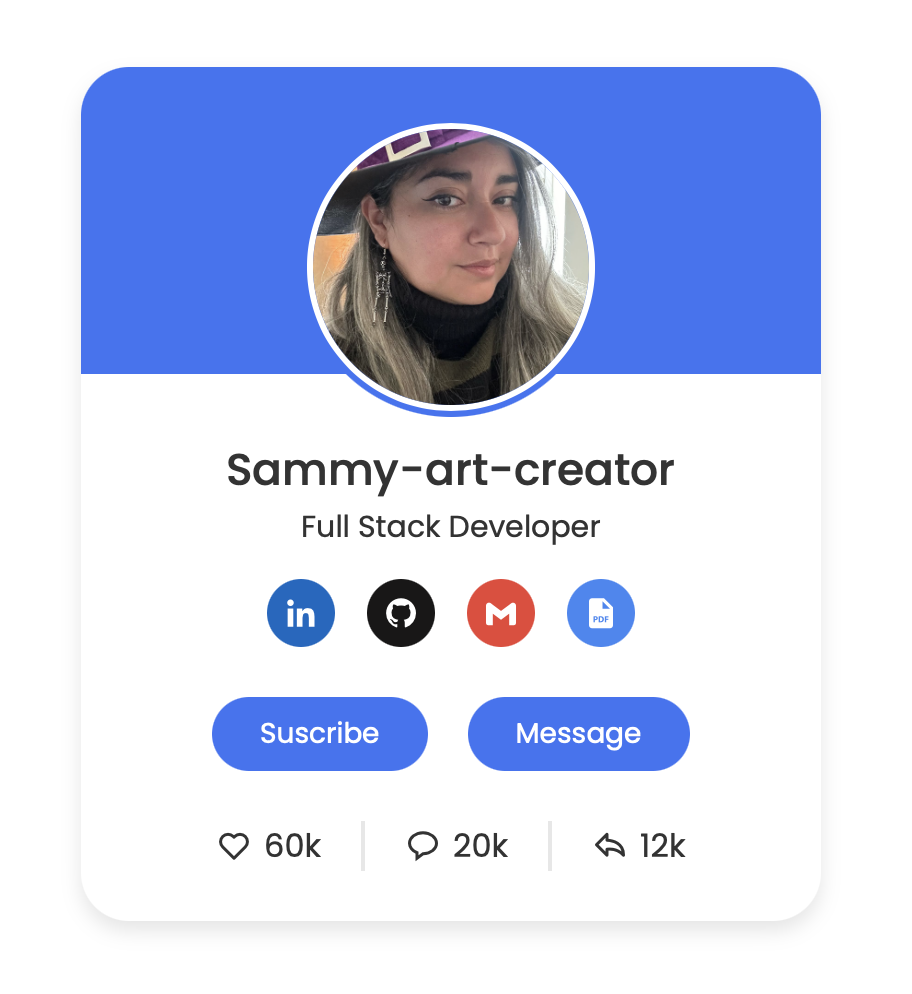
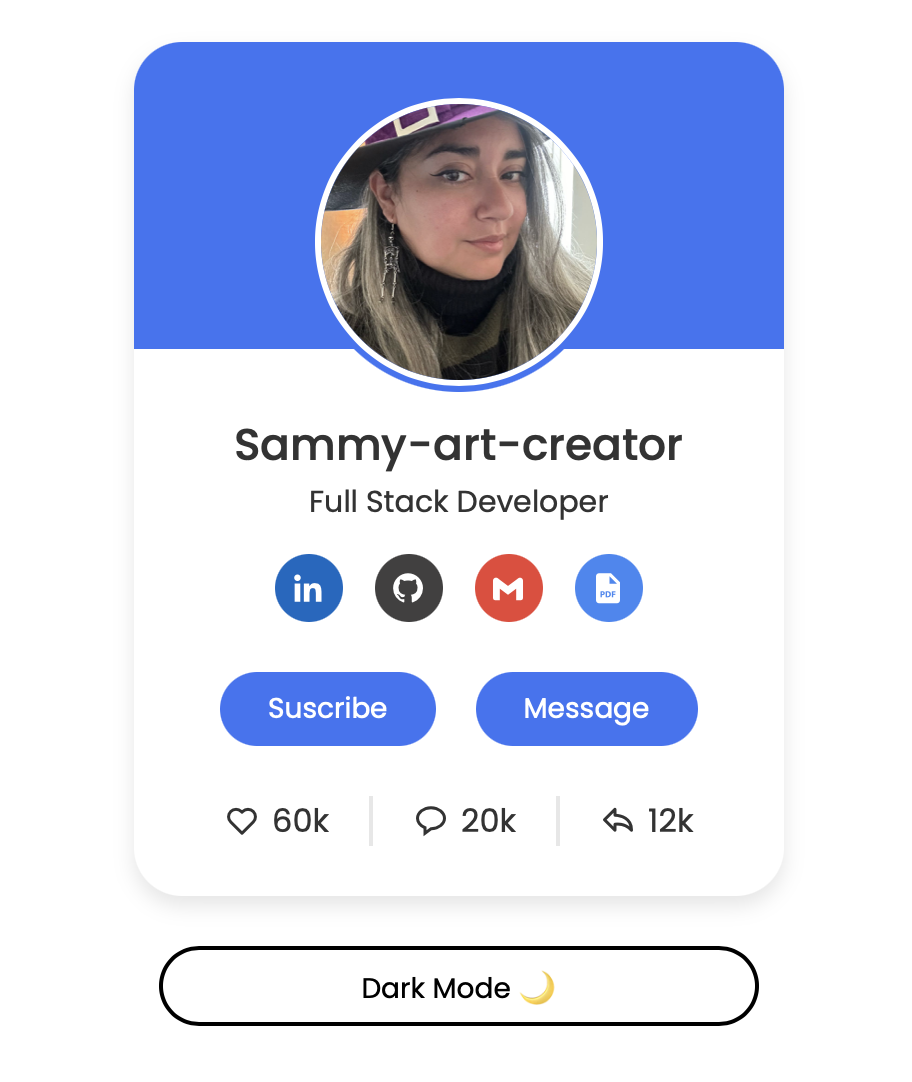
finished

Changed region(s): [[0.0614, 0.0312, 0.9211, 0.7797], [0.1842, 0.8421, 0.8289, 0.9668], [0.1535, 0.9044, 0.1842, 0.9356]]

diff --git a/style.css b/style.css
@@ -13,6 +13,16 @@ body{
     justify-content: center;
     background-color: f4f4f4;
 }
+@keyframes fadeIn {
+    from {
+        opacity: 0;
+        transform: translateY(-20px);
+    }
+    to {
+        opacity: 1;
+        transform: translateY(0);
+    }
+}
 .profile-card{
     display: flex;
     flex-direction: column;
@@ -24,6 +34,7 @@ body{
     padding: 25px;
     box-shadow: 0 5px 10px rgba(0, 0, 0, 0.1);
     position: relative;
+    animation: fadeIn 1s ease-in-out;
 }
 .profile-card::before{
     content: '';
@@ -121,4 +132,58 @@ body{
 .data i {
     font-size: 18px;
     margin-right: 6px;
+}
+.dark-mood{
+    display: flex;
+    flex-direction: column;
+    margin-top: 25px;
+    align-items: center;
+}
+.dark-mood button{
+
+    margin: 0 10px;
+    border-radius: 24px;
+    font-size: 14px;
+    font-weight: 400;
+    cursor: pointer;
+    transition: all 0.3s ease;
+    width: 300px;
+    height: 40px;
+}
+.theme-toggle {
+    background-color: white;
+    color: black;
+    border: 2px solid black;
+}
+
+/* Estilo para modo oscuro */
+.dark-mode .theme-toggle {
+    background-color: black;
+    color: white;
+    border: 2px solid white;
+}
+
+.dark-mode {
+    background-color: black;
+    color: #fff;
+}
+
+.dark-mode .profile-card {
+    background-color: black;
+    box-shadow: 0 3px 10px rgba(255, 255, 255, 0.423);
+    animation: fadeIn 1s ease-in-out;
+}
+
+.dark-mode .text-data .name,
+.dark-mode .text-data .job,
+.dark-mode .analytics .data{
+    color: #fff;
+}
+
+.dark-mode .buttons .button {
+    background-color: #4070f4;
+}
+
+.dark-mode .buttons .button:hover {
+    background-color: #0e4bf1;
 }

diff --git a/index.html b/index.html
@@ -8,6 +8,7 @@
     <link href='https://unpkg.com/boxicons@2.1.4/css/boxicons.min.css' rel='stylesheet'>
 </head>
 <body>
+    <div class="container">
     <div class="profile-card">
         <div class="image">
             <img src="profile.png" alt="" class="profile-img">
@@ -20,7 +21,7 @@
             <a href="#" style="background-color: #0A66C2;" class="link">
                 <i class='bx bxl-linkedin'></i>
             </a>
-            <a href="#" style="background-color: #181717;" class="link">
+            <a href="#" style="background-color: #414040;" class="link">
                 <i class='bx bxl-github'></i>
             </a>
             <a href="#" style="background-color: #EA4335;" class="link">
@@ -49,5 +50,10 @@
             </div>
         </div>
     </div>
+    <div class="dark-mood">
+        <button class="theme-toggle">Modo Oscuro 🌙</button>
+    </div>
+</div>
+    <script src="script.js"></script>
 </body>
 </html>

diff --git a/script.js b/script.js
@@ -1,0 +1,15 @@
+document.addEventListener("DOMContentLoaded", function () {
+    const themeToggle = document.querySelector(".theme-toggle");
+    const body = document.body;
+
+    themeToggle.addEventListener("click", function () {
+        body.classList.toggle("dark-mode");
+
+        // Cambia el texto del botón según el modo
+        if (body.classList.contains("dark-mode")) {
+            themeToggle.textContent = "Light Mode ☀";
+        } else {
+            themeToggle.textContent = "Dark Mode 🌙";
+        }
+    });
+});

diff --git a/README.md b/README.md
@@ -1,15 +1,18 @@
 # 🎨 Profile Card UI Design  
 
 Este es un diseño moderno y responsive de una **tarjeta de perfil** con enlaces a redes sociales y botones interactivos.  
-![Ejemplo](image.png)
+![Vista 1](image-2.png)
+![Vista 2](image-3.png)
 
 ## 🚀 Demo en Vivo  
 🔗 [Ver Proyecto en Vercel](https://profile-card-two-theta.vercel.app)  
 
 ## 📸 Vista Previa  
-![Profile Card UI](image-1.png)
+![Profile Card UI-Light mode](image.png)
+![Profile Card UI-Dark mode](image-1.png)
 
 ## 🛠 Tecnologías Usadas  
 - **HTML5** 🏗  
 - **CSS3** 🎨  
-- **Boxicons** (Para iconos) 🔣 
+- **Boxicons** (Para iconos) 🔣  
+- **JavaScript** ⚡ (Para interactividad)  
